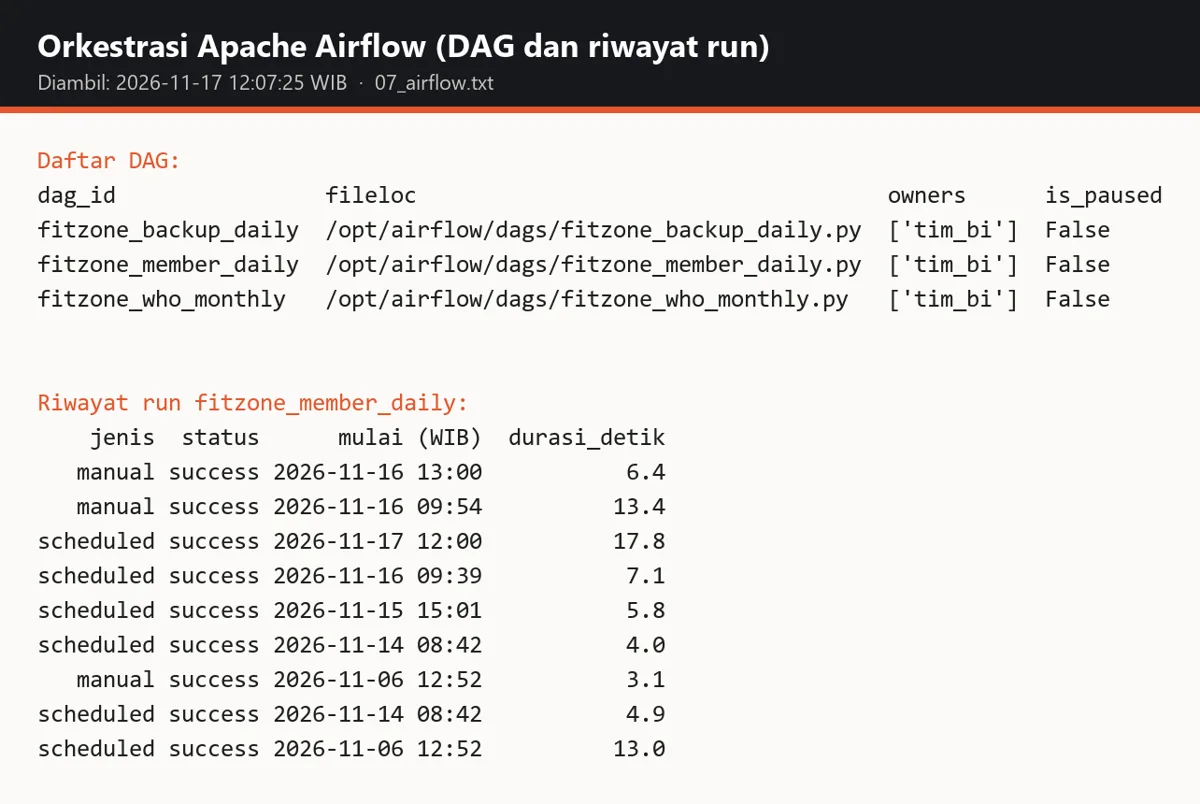
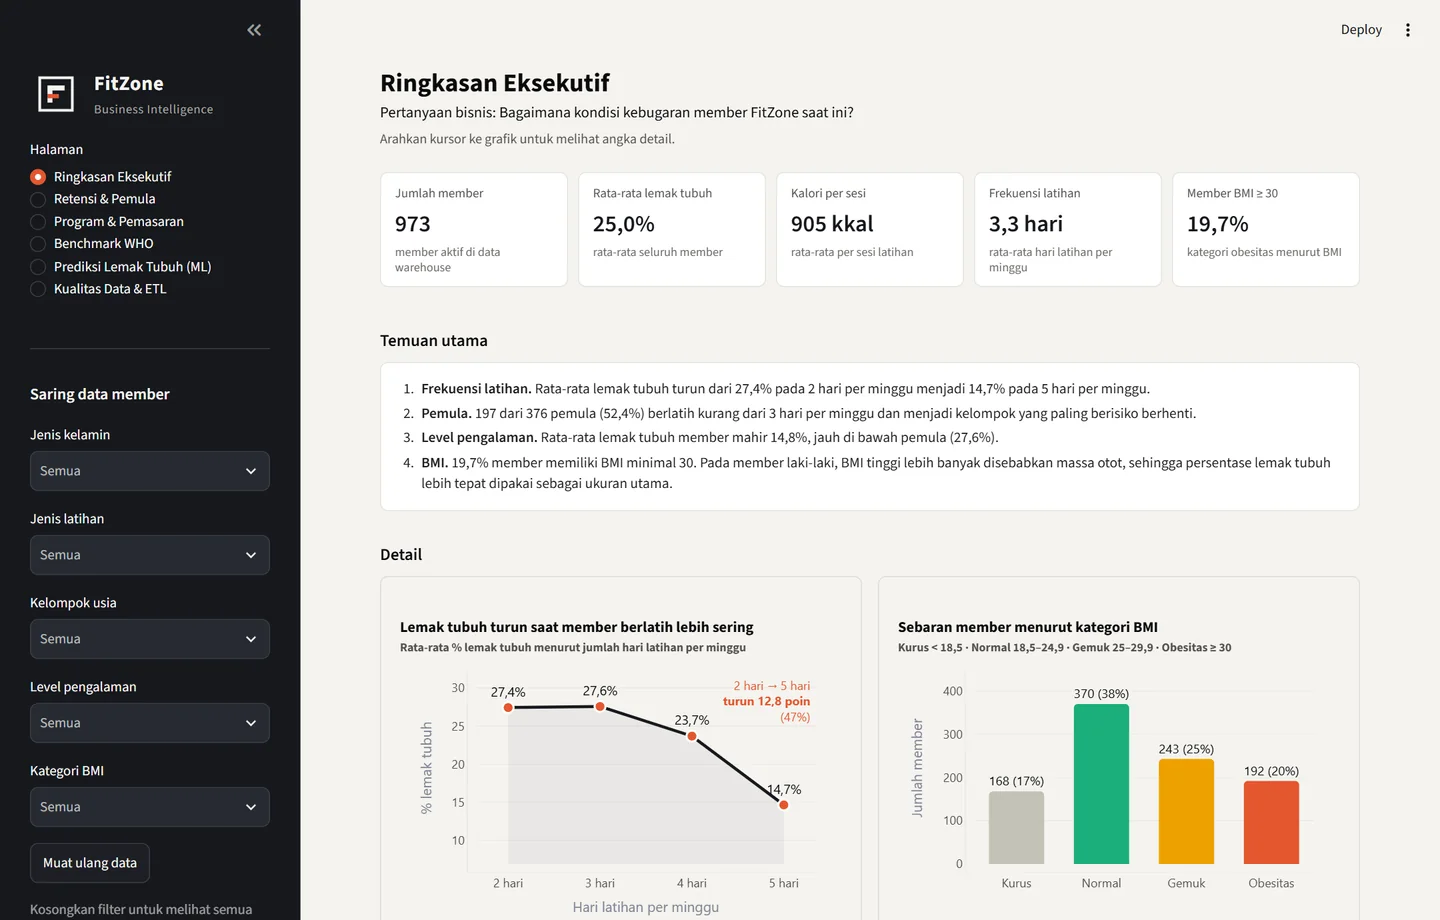
FitZone dashboard and DW explanation, remove ticker, IPK 3.84, semester 5

diff --git a/index.html b/index.html
@@ -47,7 +47,7 @@
           <span class="line"><span><em>Nafis</em> Putra</span></span>
         </h1>
         <p class="hero__lede">
-          Mahasiswa Teknologi Informasi di Universitas Lambung Mangkurat. Saya membangun aplikasi
+          Mahasiswa semester 5 Teknologi Informasi di Universitas Lambung Mangkurat. Saya membangun aplikasi
           Android, web, dan desktop, mengolah data menjadi dashboard yang bisa dibaca, dan di luar
           kelas mengurus acara dari konsep sampai hari pelaksanaan.
         </p>
@@ -63,19 +63,13 @@
     <div class="wrap">
       <dl class="facts">
         <div><dt>Kampus</dt><dd>Universitas Lambung Mangkurat</dd></div>
-        <div><dt>IPK</dt><dd><b data-count="3.80">3,80</b> <span>/ 4,00</span></dd></div>
-        <div><dt>Domisili</dt><dd>Banjarmasin, Kalimantan Selatan</dd></div>
+        <div><dt>IPK</dt><dd><b data-count="3.84">3,84</b> <span>/ 4,00</span></dd></div>
+        <div><dt>Semester</dt><dd>5 <span>· angkatan 2024</span></dd></div>
         <div><dt>Status</dt><dd><i class="dot" aria-hidden="true"></i>Terbuka untuk magang</dd></div>
       </dl>
     </div>
   </section>
 
-  <div class="ticker" aria-hidden="true">
-    <div class="ticker__track">
-      <span>Kotlin</span><span>Jetpack Compose</span><span>Java</span><span>Laravel</span><span>Python</span><span>Streamlit</span><span>Apache Airflow</span><span>PostgreSQL</span><span>Tableau</span><span>Docker</span><span>Figma</span><span>Manajemen acara</span>
-      <span>Kotlin</span><span>Jetpack Compose</span><span>Java</span><span>Laravel</span><span>Python</span><span>Streamlit</span><span>Apache Airflow</span><span>PostgreSQL</span><span>Tableau</span><span>Docker</span><span>Figma</span><span>Manajemen acara</span>
-    </div>
-  </div>
 
   <!-- KARYA -->
   <section class="section" id="karya" aria-labelledby="karya-h">
@@ -132,19 +126,31 @@
       <!-- 03 FitZone -->
       <article class="work">
         <figure class="work__media work__media--screen">
-          <img src="assets/img/fitzone.webp" width="1200" height="804" loading="lazy" alt="Riwayat eksekusi DAG Apache Airflow pada pipeline FitZone">
+          <img src="assets/img/fitzone.webp" width="1440" height="920" loading="lazy" alt="Dashboard FitZone halaman Ringkasan Eksekutif: 973 member, rata-rata lemak tubuh 25 persen, dan grafik lemak tubuh menurut frekuensi latihan">
         </figure>
         <div class="work__meta">
           <p class="work__line"><span class="work__no">03</span> UAS Kecerdasan Bisnis · 2026</p>
-          <h3 class="work__title">Pipeline Data FitZone</h3>
+          <h3 class="work__title">Pipeline &amp; Data Warehouse FitZone</h3>
           <p class="work__desc">
-            Pipeline lengkap untuk jaringan gym fiktif: data member harian dan data WHO lewat API masuk
-            ke data lake, dicek kualitasnya, lalu disusun menjadi data warehouse <em>star schema</em>
-            dan data mart. Semuanya dijadwalkan dengan Airflow dan dilengkapi model prediksi.
+            Sistem BI untuk jaringan gym fiktif PT FitZone Nusantara. Dashboard Streamlit menjawab
+            pertanyaan bisnis seperti siapa member yang paling berisiko berhenti, dengan enam halaman:
+            ringkasan, retensi, program, benchmark WHO, prediksi lemak tubuh, dan kualitas data.
           </p>
-          <ul class="tags"><li>Python</li><li>Apache Airflow</li><li>PostgreSQL</li><li>Docker</li><li>scikit-learn</li></ul>
+          <details class="dw">
+            <summary>Cara saya membangun data warehouse-nya</summary>
+            <ol>
+              <li><b>Sumber.</b> CSV kebiasaan latihan member (harian) dan WHO Global Health Observatory API (bulanan).</li>
+              <li><b>Data lake.</b> File asli disimpan di <em>raw zone</em> lengkap dengan checksum dan manifest, lalu hasil bersihnya di <em>curated zone</em> sebagai parquet.</li>
+              <li><b>Staging &amp; quality gate.</b> Data dimuat ke schema staging dan dicek dengan 16 aturan; batch berhenti bila baris ditolak lebih dari 5%, dan semua penolakan dicatat.</li>
+              <li><b>Star schema.</b> 7 dimensi (member, gender, jenis latihan, level, kategori BMI, negara, indikator) dan 3 fakta (sesi latihan, pengukuran tubuh, benchmark WHO) di PostgreSQL, dimuat dalam satu transaksi beserta rekonsiliasi jumlah baris.</li>
+              <li><b>Data mart.</b> <em>View</em> dan <em>materialized view</em> per kebutuhan bisnis, menjadi sumber dashboard.</li>
+              <li><b>Otomasi.</b> Tiga DAG Airflow (member harian, WHO bulanan, backup), log audit per tahap, dan model Random Forest untuk memprediksi lemak tubuh.</li>
+            </ol>
+          </details>
+          <ul class="tags"><li>Python</li><li>Apache Airflow</li><li>PostgreSQL</li><li>Streamlit</li><li>Docker</li><li>scikit-learn</li></ul>
           <div class="work__links">
             <a class="pill" href="https://github.com/MuhammadNafisPutra/KecerdasanBisnis" target="_blank" rel="noopener">Lihat kode</a>
+            <a class="pill" href="https://github.com/MuhammadNafisPutra/KecerdasanBisnis/blob/main/docs/gambar/e24_star_schema.png" target="_blank" rel="noopener">Star schema</a>
           </div>
         </div>
       </article>
@@ -246,7 +252,7 @@
       </div>
       <div class="about__body">
         <p>
-          Saya kuliah di Teknologi Informasi ULM sejak 2024. Proyek kuliah membawa saya dari Java
+          Saat ini saya menjalani semester 5 di Teknologi Informasi ULM. Proyek kuliah membawa saya dari Java
           desktop ke Android dengan Kotlin, lalu ke web dengan Laravel, dan sekarang banyak ke
           pengolahan data. Tahun ini saya juga mengikuti pelatihan jaringan dan keamanan siber
           lewat Digital Talent Scholarship.
@@ -296,7 +302,7 @@
         <li>
           <p class="timeline__when">Agu 2024 – sekarang</p>
           <h3>S1 Teknologi Informasi</h3>
-          <p class="timeline__where">Universitas Lambung Mangkurat · IPK 3,80</p>
+          <p class="timeline__where">Universitas Lambung Mangkurat · IPK 3,84 · semester 5</p>
         </li>
         <li>
           <p class="timeline__when">2021 – 2024</p>

diff --git a/style.css b/style.css
@@ -125,12 +125,6 @@ em { font-style: italic; }
 .facts dd b { font-weight: inherit; font-variant-numeric: tabular-nums; }
 .dot { display: inline-block; width: 8px; height: 8px; margin: 0 9px 2px 0; border-radius: 50%; background: #8FBF8A; vertical-align: middle; }
 
-/* ===== Ticker ===== */
-.ticker { overflow: hidden; background: var(--wine); color: var(--cream); padding: 18px 0; }
-.ticker__track { display: flex; width: max-content; }
-.ticker span { font-family: var(--serif); font-size: clamp(18px, 2vw, 24px); font-style: italic; font-weight: 300; white-space: nowrap; padding: 0 26px; }
-.ticker span::after { content: "\2726"; font-style: normal; font-size: .55em; color: var(--brass); margin-left: 52px; vertical-align: middle; }
-
 /* ===== Sections ===== */
 .section { padding: clamp(72px, 10vw, 128px) 0; }
 .section--tint { background: var(--paper-2); }
@@ -174,6 +168,24 @@ em { font-style: italic; }
 .work__media--phones:hover img:nth-child(1) { transform: translateY(-8px) rotate(-2deg); }
 .work__media--phones:hover img:nth-child(2) { transform: translateY(clamp(4px, 1.6vw, 18px)); }
 .work__media--phones:hover img:nth-child(3) { transform: translateY(-8px) rotate(2deg); }
+
+/* ===== DW explainer ===== */
+.dw { margin: -4px 0 24px; border: 1px solid var(--line); border-radius: var(--r-md); background: var(--card); }
+.dw summary {
+  list-style: none; cursor: pointer; padding: 14px 18px; font-weight: 600; font-size: 15px; color: var(--wine);
+  display: flex; justify-content: space-between; align-items: center; gap: 12px;
+}
+.dw summary::-webkit-details-marker { display: none; }
+.dw summary::after { content: "+"; font: 400 22px/1 var(--serif); transition: transform .35s var(--ease); }
+.dw[open] summary::after { transform: rotate(45deg); }
+.dw ol { padding: 0 18px 16px 38px; list-style: decimal; color: var(--ink-soft); font-size: 15px; }
+.dw li { padding-left: 4px; }
+.dw li + li { margin-top: 8px; }
+.dw li::marker { color: var(--brass); font-weight: 600; }
+.dw b { color: var(--ink); font-weight: 600; }
+@media (prefers-reduced-motion: no-preference) {
+  .dw[open] ol { animation: fadeUp .5s var(--ease) both; }
+}
 
 /* ===== Cards ===== */
 .cards { display: grid; grid-template-columns: repeat(3, 1fr); gap: clamp(16px, 2vw, 24px); }
@@ -296,7 +308,6 @@ em { font-style: italic; }
   @keyframes unveil { from { clip-path: inset(100% 0 0 0 round 24px); } to { clip-path: inset(0 0 0 0 round 24px); } }
   @keyframes settle { from { scale: 1.08; } to { scale: 1; } }
   @keyframes frame  { from { opacity: 0; transform: translate(14px, -14px); } to { opacity: .55; transform: none; } }
-  @keyframes ticker { to { transform: translateX(-50%); } }
   @keyframes pulse  { 0% { box-shadow: 0 0 0 0 rgba(143, 191, 138, .6); } 70%, 100% { box-shadow: 0 0 0 8px rgba(143, 191, 138, 0); } }
   @keyframes float  { 50% { transform: translateY(-6px); } }
 
@@ -314,8 +325,6 @@ em { font-style: italic; }
   .facts > div:nth-child(3) { animation-delay: 1.1s; }
   .facts > div:nth-child(4) { animation-delay: 1.2s; }
   .dot                     { animation: pulse 2.4s ease-out infinite; }
-  .ticker__track           { animation: ticker 50s linear infinite; }
-  .ticker:hover .ticker__track { animation-play-state: paused; }
 
   .js .reveal { opacity: 0; transform: translateY(28px); transition: opacity .9s var(--ease), transform .9s var(--ease); }
   .js .reveal.is-in { opacity: 1; transform: none; }
